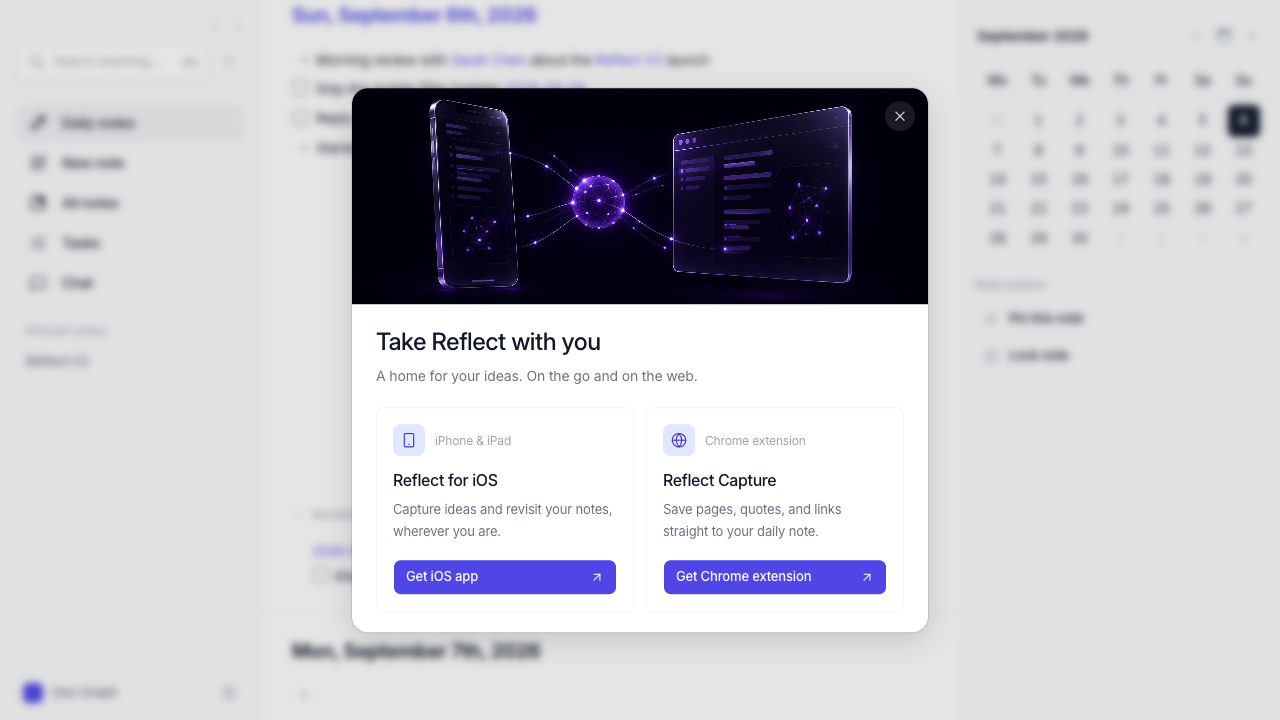
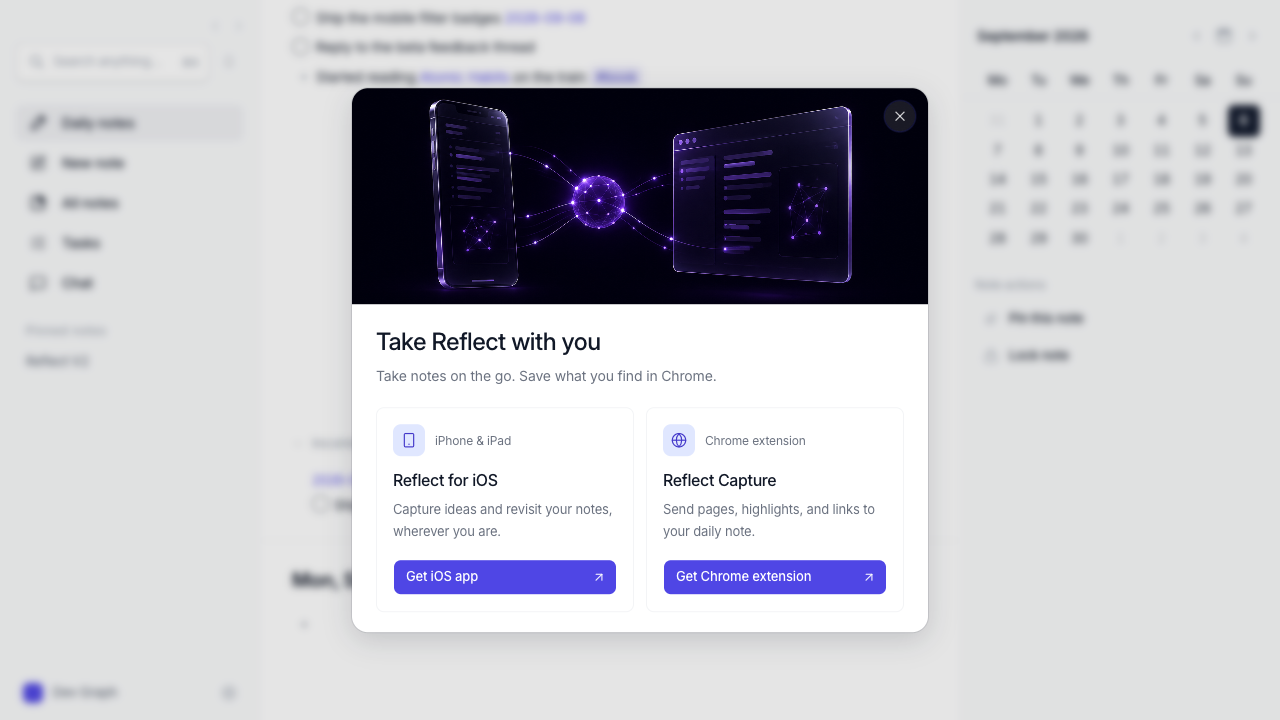
fix: clarify and polish companion app discovery

diff --git a/apps/desktop/src/components/reflect-apps-dialog.tsx b/apps/desktop/src/components/reflect-apps-dialog.tsx
@@ -39,7 +39,7 @@ const REFLECT_APPS: readonly ReflectApp[] = [
   {
     name: 'Reflect Capture',
     platform: 'Chrome extension',
-    description: 'Save pages, quotes, and links straight to your daily note.',
+    description: 'Send pages, highlights, and links to your daily note.',
     action: 'Get Chrome extension',
     url: 'https://chromewebstore.google.com/detail/reflect-capture/ccabifmooehighoonjeiololjfofkhkd',
     icon: Globe,
@@ -57,7 +57,7 @@ export function ReflectAppsDialog({
       <DialogContent
         finalFocus={finalFocus}
         showCloseButton={false}
-        className="max-h-[calc(100dvh-2rem)] gap-0 overflow-y-auto rounded-2xl p-0 shadow-pop sm:max-w-xl"
+        className="max-h-[calc(100dvh-2rem)] animate-none! gap-0 overflow-y-auto rounded-2xl p-0 shadow-pop transition-opacity duration-150 ease-out sm:max-w-xl data-[starting-style]:opacity-0 data-[ending-style]:opacity-0 data-[ending-style]:duration-100 motion-reduce:transition-none"
       >
         <div className="relative overflow-hidden rounded-t-2xl">
           <img
@@ -65,14 +65,14 @@ export function ReflectAppsDialog({
             alt=""
             width={1774}
             height={887}
-            className="block aspect-8/3 w-full object-cover"
+            className="block aspect-8/3 w-full object-cover outline outline-1 -outline-offset-1 outline-black/10 dark:outline-white/10"
           />
           <DialogClose
             render={
               <Button
                 variant="ghost"
                 size="icon"
-                className="absolute top-3 right-3 rounded-full bg-white/10 text-white/80 hover:bg-white/20 hover:text-white"
+                className="absolute top-3 right-3 rounded-full bg-white/10 text-white/80 transition-[background-color,color,box-shadow,border-color,translate] duration-150 ease-out after:absolute after:top-1/2 after:left-1/2 after:size-11 after:-translate-1/2 hover:bg-white/20 hover:text-white sm:after:size-10 motion-reduce:transition-none motion-reduce:active:not-aria-[haspopup]:translate-y-0"
               />
             }
           >
@@ -82,28 +82,30 @@ export function ReflectAppsDialog({
         </div>
         <div className="p-6 pb-5">
           <DialogHeader className="gap-2">
-            <DialogTitle className="text-2xl leading-tight tracking-tight">
+            <DialogTitle className="text-2xl leading-tight tracking-tight text-balance">
               Take Reflect with you
             </DialogTitle>
-            <DialogDescription className="leading-relaxed text-text-secondary">
-              A home for your ideas. On the go and on the web.
+            <DialogDescription className="leading-relaxed text-pretty text-text-secondary">
+              Take notes on the go. Save what you find in Chrome.
             </DialogDescription>
           </DialogHeader>
           <div className="mt-5 grid gap-3 sm:grid-cols-2">
             {REFLECT_APPS.map((app) => (
               <section key={app.url} className="flex flex-col rounded-lg border border-border p-4">
-                <div className="mb-3 flex items-center gap-2.5 text-2xs text-text-muted">
+                <div className="mb-3 flex items-center gap-2.5 text-2xs text-text-secondary">
                   <span className="flex size-8 items-center justify-center rounded-lg bg-accent-soft text-accent-soft-text">
                     <app.icon aria-hidden className="size-4" strokeWidth={1.75} />
                   </span>
                   {app.platform}
                 </div>
-                <h3 className="text-base font-medium tracking-tight text-text">{app.name}</h3>
-                <p className="mt-1.5 mb-4 flex-1 text-xs leading-relaxed text-text-secondary">
+                <h3 className="text-base font-medium tracking-tight text-balance text-text">
+                  {app.name}
+                </h3>
+                <p className="mt-1.5 mb-4 flex-1 text-xs leading-relaxed text-pretty text-text-secondary">
                   {app.description}
                 </p>
                 <Button
-                  className="h-9 w-full justify-between gap-2 bg-accent px-3 text-xs text-text-on-brand hover:bg-accent-hover"
+                  className="relative h-9 w-full justify-between gap-2 bg-accent pr-2.5 pl-3 text-xs text-text-on-brand transition-[background-color,color,box-shadow,border-color,translate] duration-150 ease-out after:absolute after:inset-x-0 after:top-1/2 after:h-11 after:-translate-y-1/2 hover:bg-accent-hover sm:after:h-10 motion-reduce:transition-none motion-reduce:active:not-aria-[haspopup]:translate-y-0"
                   onClick={() => openUrlSync(app.url)}
                 >
                   {app.action}

diff --git a/apps/desktop/src/components/sidebar/graph-footer.tsx b/apps/desktop/src/components/sidebar/graph-footer.tsx
@@ -202,7 +202,10 @@ export function GraphFooter({ graph, context }: GraphFooterProps): ReactElement 
             <span className="min-w-0 flex-1 truncate">User settings</span>
           </DropdownMenuItem>
           <DropdownMenuSeparator />
-          <DropdownMenuItem onClick={() => setAppsOpen(true)} className={MENU_ITEM_CLASS}>
+          <DropdownMenuItem
+            onClick={() => setAppsOpen(true)}
+            className={cn(MENU_ITEM_CLASS, 'min-h-10')}
+          >
             <PanelsTopLeft aria-hidden strokeWidth={1.75} className="size-3.5 shrink-0" />
             <span className="min-w-0 flex-1 truncate">Get Reflect apps…</span>
           </DropdownMenuItem>
